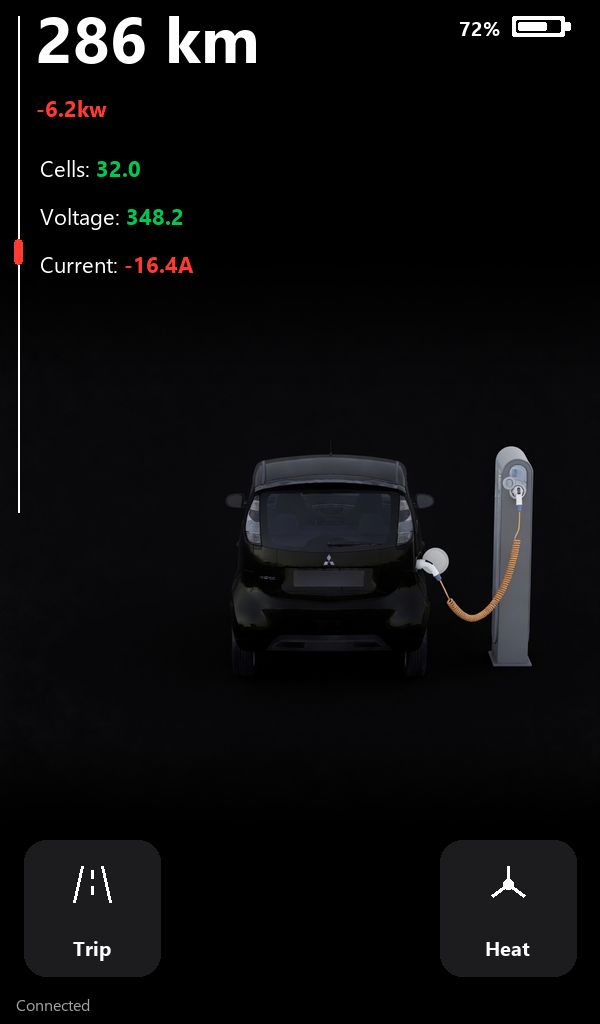
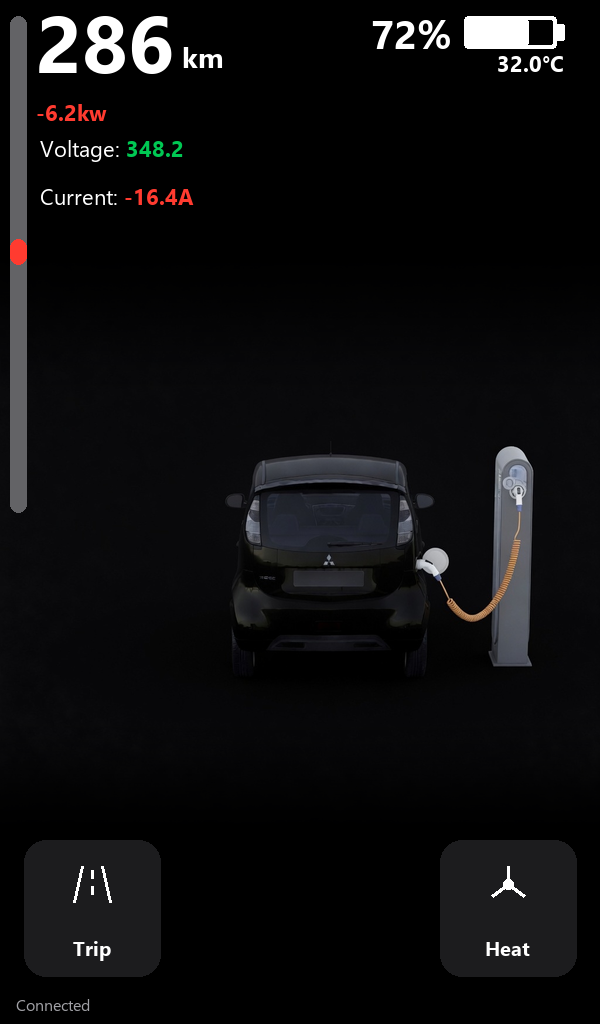
.

Changed region(s): [[0.0, 0.0, 0.45, 0.5], [0.63, 0.0, 0.96, 0.0938]]

diff --git a/main/ui/screens/ui_Livedata.c b/main/ui/screens/ui_Livedata.c
@@ -22,6 +22,8 @@ lv_obj_t * ui_Livedata = NULL;
 lv_obj_t * ui_SOCbar = NULL;
 lv_obj_t * ui_SOC = NULL;
 lv_obj_t * ui_Range = NULL;
+lv_obj_t * ui_range_unit = NULL;
+lv_obj_t * ui_soc_cap = NULL;
 lv_obj_t * ui_battw = NULL;
 lv_obj_t * ui_battamps = NULL;
 lv_obj_t * ui_celltemp = NULL;
@@ -137,6 +139,24 @@ static void add_prop_icon(lv_obj_t * btn)
     lv_obj_clear_flag(hub, LV_OBJ_FLAG_CLICKABLE | LV_OBJ_FLAG_SCROLLABLE);
 }
 
+void ui_livedata_refresh_header(void)
+{
+    if(ui_SOC != NULL && ui_SOCbar != NULL) {
+        lv_obj_align_to(ui_SOC, ui_SOCbar, LV_ALIGN_OUT_LEFT_MID, -12, 0);
+    }
+    if(ui_labelcelltemp != NULL && ui_SOCbar != NULL) {
+        lv_obj_align_to(ui_labelcelltemp, ui_SOCbar, LV_ALIGN_OUT_BOTTOM_RIGHT, 8, 8);
+    }
+    if(ui_Range != NULL && ui_range_unit != NULL) {
+        lv_obj_update_layout(ui_Range);
+        lv_coord_t w = lv_obj_get_width(ui_Range);
+        lv_coord_t h = lv_obj_get_height(ui_Range);
+        lv_coord_t x = 36 + (w * 420) / 256 + 8;
+        lv_coord_t y = 16 + (h * 420) / 256 - 30;
+        lv_obj_align(ui_range_unit, LV_ALIGN_TOP_LEFT, x, y);
+    }
+}
+
 void ui_Livedata_screen_init(void)
 {
     ui_Livedata = lv_obj_create(NULL);
@@ -145,50 +165,61 @@ void ui_Livedata_screen_init(void)
 
     ui_Range = lv_label_create(ui_Livedata);
     lv_obj_align(ui_Range, LV_ALIGN_TOP_LEFT, 36, 16);
-    lv_label_set_text(ui_Range, "0 km");
+    lv_label_set_text(ui_Range, "0");
     lv_obj_set_style_text_font(ui_Range, &lv_font_montserrat_48, LV_PART_MAIN | LV_STATE_DEFAULT);
     lv_obj_set_style_transform_pivot_x(ui_Range, 0, LV_PART_MAIN | LV_STATE_DEFAULT);
     lv_obj_set_style_transform_pivot_y(ui_Range, 0, LV_PART_MAIN | LV_STATE_DEFAULT);
-    lv_obj_set_style_transform_zoom(ui_Range, 360, LV_PART_MAIN | LV_STATE_DEFAULT);
+    lv_obj_set_style_transform_zoom(ui_Range, 420, LV_PART_MAIN | LV_STATE_DEFAULT);
     ui_style_value(ui_Range);
     lv_obj_set_style_text_align(ui_Range, LV_TEXT_ALIGN_LEFT, LV_PART_MAIN | LV_STATE_DEFAULT);
+
+    ui_range_unit = lv_label_create(ui_Livedata);
+    lv_label_set_text(ui_range_unit, "km");
+    lv_obj_set_style_text_font(ui_range_unit, &lv_font_montserrat_28, LV_PART_MAIN | LV_STATE_DEFAULT);
+    ui_style_value(ui_range_unit);
+    lv_obj_set_style_text_align(ui_range_unit, LV_TEXT_ALIGN_LEFT, LV_PART_MAIN | LV_STATE_DEFAULT);
 
     ui_SOCbar = lv_bar_create(ui_Livedata);
     lv_bar_set_range(ui_SOCbar, 0, 100);
     lv_bar_set_value(ui_SOCbar, 55, LV_ANIM_OFF);
-    lv_obj_set_size(ui_SOCbar, 46, 16);
-    lv_obj_align(ui_SOCbar, LV_ALIGN_TOP_RIGHT, -22, 16);
-    lv_obj_set_style_radius(ui_SOCbar, 2, LV_PART_MAIN | LV_STATE_DEFAULT);
-    lv_obj_set_style_radius(ui_SOCbar, 1, LV_PART_INDICATOR | LV_STATE_DEFAULT);
+    lv_obj_set_size(ui_SOCbar, 92, 32);
+    lv_obj_align(ui_SOCbar, LV_ALIGN_TOP_RIGHT, -44, 16);
+    lv_obj_set_style_radius(ui_SOCbar, 4, LV_PART_MAIN | LV_STATE_DEFAULT);
+    lv_obj_set_style_radius(ui_SOCbar, 2, LV_PART_INDICATOR | LV_STATE_DEFAULT);
     lv_obj_set_style_bg_color(ui_SOCbar, lv_color_hex(0x000000), LV_PART_MAIN | LV_STATE_DEFAULT);
     lv_obj_set_style_bg_opa(ui_SOCbar, LV_OPA_COVER, LV_PART_MAIN | LV_STATE_DEFAULT);
     lv_obj_set_style_border_color(ui_SOCbar, lv_color_hex(0xFFFFFF), LV_PART_MAIN | LV_STATE_DEFAULT);
-    lv_obj_set_style_border_width(ui_SOCbar, 2, LV_PART_MAIN | LV_STATE_DEFAULT);
+    lv_obj_set_style_border_width(ui_SOCbar, 4, LV_PART_MAIN | LV_STATE_DEFAULT);
     lv_obj_set_style_bg_color(ui_SOCbar, lv_color_hex(0xFFFFFF), LV_PART_INDICATOR | LV_STATE_DEFAULT);
-    lv_obj_set_style_pad_all(ui_SOCbar, 2, LV_PART_MAIN | LV_STATE_DEFAULT);
+    lv_obj_set_style_pad_all(ui_SOCbar, 4, LV_PART_MAIN | LV_STATE_DEFAULT);
     lv_obj_clear_flag(ui_SOCbar, LV_OBJ_FLAG_CLICKABLE);
 
-    lv_obj_t * soc_cap = lv_obj_create(ui_Livedata);
-    lv_obj_set_size(soc_cap, 4, 8);
-    lv_obj_align_to(soc_cap, ui_SOCbar, LV_ALIGN_OUT_RIGHT_MID, 0, 0);
-    lv_obj_set_style_radius(soc_cap, 1, LV_PART_MAIN | LV_STATE_DEFAULT);
-    lv_obj_set_style_bg_color(soc_cap, lv_color_hex(0xFFFFFF), LV_PART_MAIN | LV_STATE_DEFAULT);
-    lv_obj_set_style_bg_opa(soc_cap, LV_OPA_COVER, LV_PART_MAIN | LV_STATE_DEFAULT);
-    lv_obj_set_style_border_width(soc_cap, 0, LV_PART_MAIN | LV_STATE_DEFAULT);
-    lv_obj_clear_flag(soc_cap, LV_OBJ_FLAG_CLICKABLE | LV_OBJ_FLAG_SCROLLABLE);
+    ui_soc_cap = lv_obj_create(ui_Livedata);
+    lv_obj_set_size(ui_soc_cap, 8, 16);
+    lv_obj_align_to(ui_soc_cap, ui_SOCbar, LV_ALIGN_OUT_RIGHT_MID, 0, 0);
+    lv_obj_set_style_radius(ui_soc_cap, 2, LV_PART_MAIN | LV_STATE_DEFAULT);
+    lv_obj_set_style_bg_color(ui_soc_cap, lv_color_hex(0xFFFFFF), LV_PART_MAIN | LV_STATE_DEFAULT);
+    lv_obj_set_style_bg_opa(ui_soc_cap, LV_OPA_COVER, LV_PART_MAIN | LV_STATE_DEFAULT);
+    lv_obj_set_style_border_width(ui_soc_cap, 0, LV_PART_MAIN | LV_STATE_DEFAULT);
+    lv_obj_clear_flag(ui_soc_cap, LV_OBJ_FLAG_CLICKABLE | LV_OBJ_FLAG_SCROLLABLE);
 
     ui_SOC = lv_label_create(ui_Livedata);
     lv_label_set_text(ui_SOC, "0%");
-    lv_obj_set_style_text_font(ui_SOC, &lv_font_montserrat_20, LV_PART_MAIN | LV_STATE_DEFAULT);
+    lv_obj_set_style_text_font(ui_SOC, &lv_font_montserrat_40, LV_PART_MAIN | LV_STATE_DEFAULT);
     ui_style_value(ui_SOC);
     lv_obj_set_style_text_align(ui_SOC, LV_TEXT_ALIGN_RIGHT, LV_PART_MAIN | LV_STATE_DEFAULT);
-    lv_obj_align_to(ui_SOC, ui_SOCbar, LV_ALIGN_OUT_LEFT_MID, -8, 0);
+
+    ui_labelcelltemp = lv_label_create(ui_Livedata);
+    lv_label_set_text(ui_labelcelltemp, "0.0°C");
+    lv_obj_set_style_text_font(ui_labelcelltemp, &lv_font_montserrat_22, LV_PART_MAIN | LV_STATE_DEFAULT);
+    ui_style_value(ui_labelcelltemp);
+    lv_obj_set_style_text_align(ui_labelcelltemp, LV_TEXT_ALIGN_RIGHT, LV_PART_MAIN | LV_STATE_DEFAULT);
 
     lv_obj_t * kw_track = lv_obj_create(ui_Livedata);
-    lv_obj_set_size(kw_track, 2, 496);
-    lv_obj_align(kw_track, LV_ALIGN_TOP_LEFT, 17, 16);
-    lv_obj_set_style_radius(kw_track, 1, LV_PART_MAIN | LV_STATE_DEFAULT);
-    lv_obj_set_style_bg_color(kw_track, lv_color_hex(0xFFFFFF), LV_PART_MAIN | LV_STATE_DEFAULT);
+    lv_obj_set_size(kw_track, 16, 496);
+    lv_obj_align(kw_track, LV_ALIGN_TOP_LEFT, 10, 16);
+    lv_obj_set_style_radius(kw_track, 8, LV_PART_MAIN | LV_STATE_DEFAULT);
+    lv_obj_set_style_bg_color(kw_track, lv_color_hex(0x636366), LV_PART_MAIN | LV_STATE_DEFAULT);
     lv_obj_set_style_bg_opa(kw_track, LV_OPA_COVER, LV_PART_MAIN | LV_STATE_DEFAULT);
     lv_obj_set_style_border_width(kw_track, 0, LV_PART_MAIN | LV_STATE_DEFAULT);
     lv_obj_set_style_pad_all(kw_track, 0, LV_PART_MAIN | LV_STATE_DEFAULT);
@@ -198,10 +229,10 @@ void ui_Livedata_screen_init(void)
     lv_bar_set_mode(ui_kwbar, LV_BAR_MODE_SYMMETRICAL);
     lv_bar_set_range(ui_kwbar, -60, 60);
     lv_bar_set_value(ui_kwbar, 0, LV_ANIM_OFF);
-    lv_obj_set_size(ui_kwbar, 8, 496);
-    lv_obj_align(ui_kwbar, LV_ALIGN_TOP_LEFT, 14, 16);
-    lv_obj_set_style_radius(ui_kwbar, 0, LV_PART_MAIN | LV_STATE_DEFAULT);
-    lv_obj_set_style_radius(ui_kwbar, 4, LV_PART_INDICATOR | LV_STATE_DEFAULT);
+    lv_obj_set_size(ui_kwbar, 16, 496);
+    lv_obj_align(ui_kwbar, LV_ALIGN_TOP_LEFT, 10, 16);
+    lv_obj_set_style_radius(ui_kwbar, 8, LV_PART_MAIN | LV_STATE_DEFAULT);
+    lv_obj_set_style_radius(ui_kwbar, 8, LV_PART_INDICATOR | LV_STATE_DEFAULT);
     lv_obj_set_style_bg_opa(ui_kwbar, LV_OPA_TRANSP, LV_PART_MAIN | LV_STATE_DEFAULT);
     lv_obj_set_style_bg_color(ui_kwbar, lv_color_hex(0x00C853), LV_PART_INDICATOR | LV_STATE_DEFAULT);
     lv_obj_set_style_pad_all(ui_kwbar, 0, LV_PART_MAIN | LV_STATE_DEFAULT);
@@ -213,23 +244,21 @@ void ui_Livedata_screen_init(void)
     lv_obj_set_style_text_font(ui_labelbattw, &lv_font_montserrat_22, LV_PART_MAIN | LV_STATE_DEFAULT);
     ui_style_value(ui_labelbattw);
     lv_obj_set_style_text_align(ui_labelbattw, LV_TEXT_ALIGN_LEFT, LV_PART_MAIN | LV_STATE_DEFAULT);
-    lv_obj_align(ui_labelbattw, LV_ALIGN_TOP_LEFT, 36, 96);
+    lv_obj_align(ui_labelbattw, LV_ALIGN_TOP_LEFT, 36, 112);
 
-    ui_Label2 = side_caption("Cells:", 148);
-    ui_labelcelltemp = lv_label_create(ui_Livedata);
-    side_value(ui_Label2, ui_labelcelltemp, "0.0");
-
-    ui_Label4 = side_caption("Voltage:", 196);
+    ui_Label4 = side_caption("Voltage:", 148);
     ui_labelvolt = lv_label_create(ui_Livedata);
     side_value(ui_Label4, ui_labelvolt, "0.0");
     lv_obj_add_flag(ui_Label4, LV_OBJ_FLAG_HIDDEN);
     lv_obj_add_flag(ui_labelvolt, LV_OBJ_FLAG_HIDDEN);
 
-    ui_Label1 = side_caption("Current:", 244);
+    ui_Label1 = side_caption("Current:", 196);
     ui_labelbattamps = lv_label_create(ui_Livedata);
     side_value(ui_Label1, ui_labelbattamps, "0.0A");
     lv_obj_add_flag(ui_Label1, LV_OBJ_FLAG_HIDDEN);
     lv_obj_add_flag(ui_labelbattamps, LV_OBJ_FLAG_HIDDEN);
+
+    ui_livedata_refresh_header();
 
     ui_carimg = lv_img_create(ui_Livedata);
     lv_img_set_src(ui_carimg, &ui_img_imiev_png);
@@ -304,6 +333,8 @@ void ui_Livedata_screen_destroy(void)
     ui_SOC = NULL;
     uic_Range = NULL;
     ui_Range = NULL;
+    ui_range_unit = NULL;
+    ui_soc_cap = NULL;
     uic_battw = NULL;
     ui_battw = NULL;
     uic_battamps = NULL;

diff --git a/main/main.c b/main/main.c
@@ -290,7 +290,9 @@ static const int WIFI_MAXIMUM_RETRY = 5;
 // Add these extern declarations to access UI elements
 extern lv_obj_t * ui_SOC;
 extern lv_obj_t * ui_Range;
+extern lv_obj_t * ui_range_unit;
 extern lv_obj_t * ui_SOCbar;
+extern lv_obj_t * ui_soc_cap;
 extern lv_obj_t * ui_battw;
 extern lv_obj_t * ui_kwbar;
 extern lv_obj_t * ui_battamps;
@@ -365,16 +367,18 @@ static void set_obj_hidden(lv_obj_t *obj, bool hidden)
 
 static lv_color_t power_status_color(float kw)
 {
-    if (kw >= 40.0f) {
-        return info_red();
+    return (kw < 0.0f) ? info_red() : info_green();
+}
+
+static void set_battery_icon_color(lv_color_t color)
+{
+    if (ui_SOCbar != NULL) {
+        lv_obj_set_style_border_color(ui_SOCbar, color, LV_PART_MAIN | LV_STATE_DEFAULT);
+        lv_obj_set_style_bg_color(ui_SOCbar, color, LV_PART_INDICATOR | LV_STATE_DEFAULT);
     }
-    if (kw >= 15.0f) {
-        return info_orange();
+    if (ui_soc_cap != NULL) {
+        lv_obj_set_style_bg_color(ui_soc_cap, color, LV_PART_MAIN | LV_STATE_DEFAULT);
     }
-    if (kw >= 0.0f) {
-        return info_green();
-    }
-    return info_red();
 }
 
 static lv_color_t current_status_color(float amp)
@@ -389,17 +393,6 @@ static lv_color_t current_status_color(float amp)
         return info_green();
     }
     return info_red();
-}
-
-static lv_color_t temp_status_color(float temp_c)
-{
-    if (temp_c >= 45.0f) {
-        return info_red();
-    }
-    if (temp_c >= 35.0f || temp_c <= 10.0f) {
-        return info_orange();
-    }
-    return info_green();
 }
 
 static lv_color_t volt_status_color(float volt)
@@ -653,9 +646,6 @@ void ui_update_task_with_consumption(void *pvParameters) {
                             char soc_text[16];
                             snprintf(soc_text, sizeof(soc_text), "%.1f%%", data.soc);
                             lv_label_set_text(ui_SOC, soc_text);
-                            if (ui_SOCbar != NULL) {
-                                lv_obj_align_to(ui_SOC, ui_SOCbar, LV_ALIGN_OUT_LEFT_MID, -8, 0);
-                            }
                         }
                     
                         
@@ -663,11 +653,12 @@ void ui_update_task_with_consumption(void *pvParameters) {
                         int soc_val = (int)data.soc;
                         soc_val = (soc_val < 0) ? 0 : (soc_val > 100) ? 100 : soc_val;
                         lv_bar_set_value(ui_SOCbar, soc_val, LV_ANIM_OFF);
+                        set_battery_icon_color(soc_val < 30 ? info_red() : lv_color_hex(0xFFFFFF));
                 }
                 
                 if (ui_Range != NULL) {
                     char range_text[16];
-                    snprintf(range_text, sizeof(range_text), "%.0f km", data.range);
+                    snprintf(range_text, sizeof(range_text), "%.0f", data.range);
                     lv_label_set_text(ui_Range, range_text);
                 }
                 
@@ -691,6 +682,7 @@ void ui_update_task_with_consumption(void *pvParameters) {
                     snprintf(temp_text, sizeof(temp_text), "%.1f°C", data.temp);
                     lv_label_set_text(ui_labelcelltemp, temp_text);
                 }
+                ui_livedata_refresh_header();
                 
                 if (ui_celltemp != NULL) {
                     // Clamp temperature to safe display range
@@ -700,7 +692,6 @@ void ui_update_task_with_consumption(void *pvParameters) {
                     // Set arc value (e.g., shift -10 to 0 range into 0–100 for arc if needed)
                     lv_arc_set_value(ui_celltemp, temp_arc_value);
                 }
-                set_gauge_status(ui_celltemp, ui_labelcelltemp, temp_status_color(data.temp));
                                 
                 if (ui_labelvolt != NULL) {
                     char volt_text[16];
@@ -1275,11 +1266,9 @@ void app_main() {
         // Initialize default values with null checks
         if (ui_SOC != NULL) {
             lv_label_set_text(ui_SOC, "0.0%");
-            if (ui_SOCbar != NULL) {
-                lv_obj_align_to(ui_SOC, ui_SOCbar, LV_ALIGN_OUT_LEFT_MID, -8, 0);
-            }
         }
-        if (ui_Range != NULL) lv_label_set_text(ui_Range, "0 km");
+        if (ui_Range != NULL) lv_label_set_text(ui_Range, "0");
+        ui_livedata_refresh_header();
         if (ui_labelbattw != NULL) lv_label_set_text(ui_labelbattw, "0.0");
         if (ui_labelbattamps != NULL) lv_label_set_text(ui_labelbattamps, "0.0");
         if (ui_labelcelltemp != NULL) lv_label_set_text(ui_labelcelltemp, "0.0°C");

diff --git a/main/ui/screens/ui_Livedata.h b/main/ui/screens/ui_Livedata.h
@@ -17,6 +17,8 @@ extern lv_obj_t * ui_Livedata;
 extern lv_obj_t * ui_SOCbar;
 extern lv_obj_t * ui_SOC;
 extern lv_obj_t * ui_Range;
+extern lv_obj_t * ui_range_unit;
+extern lv_obj_t * ui_soc_cap;
 extern lv_obj_t * ui_battw;
 extern lv_obj_t * ui_battamps;
 extern lv_obj_t * ui_celltemp;
@@ -37,6 +39,7 @@ extern lv_obj_t * ui_Button1;
 extern lv_obj_t * ui_Label16;
 extern lv_obj_t * ui_Label14;
 extern lv_obj_t * ui_kwbar;
+extern void ui_livedata_refresh_header(void);
 // CUSTOM VARIABLES
 extern lv_obj_t * uic_Livedata;
 extern lv_obj_t * uic_SOCbar;
